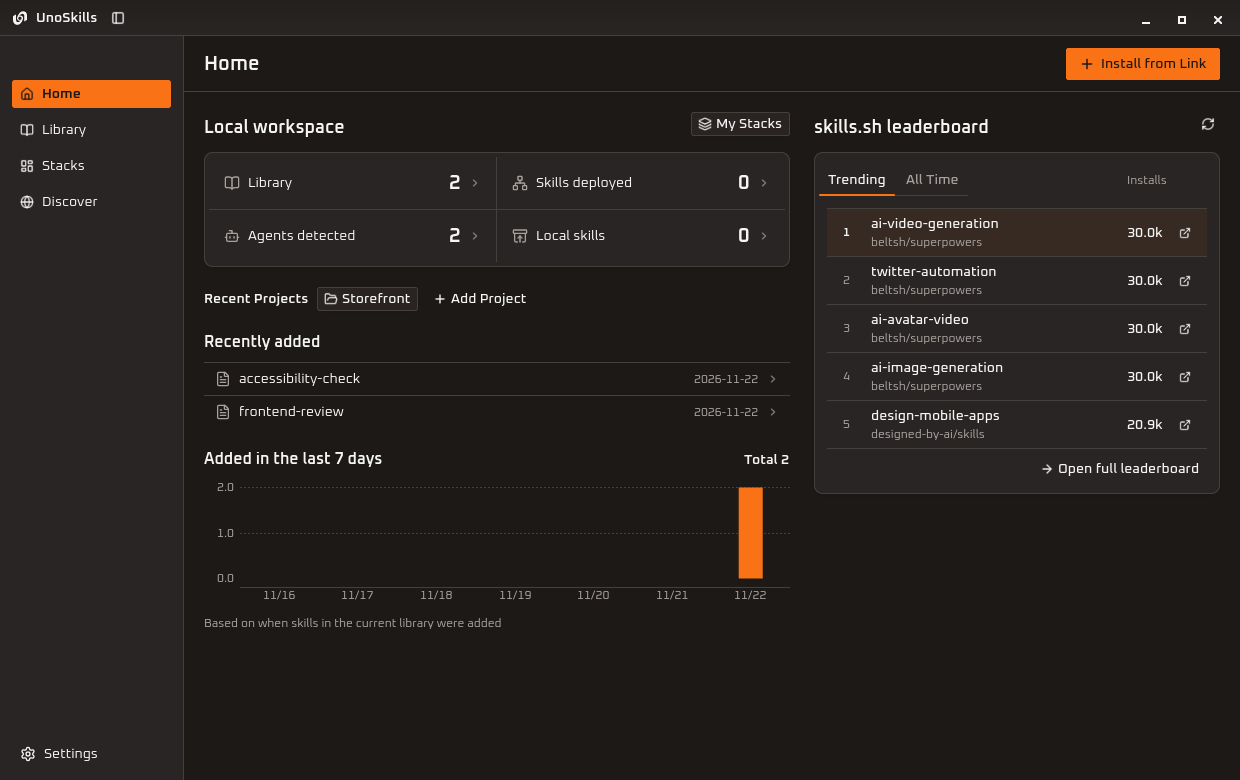
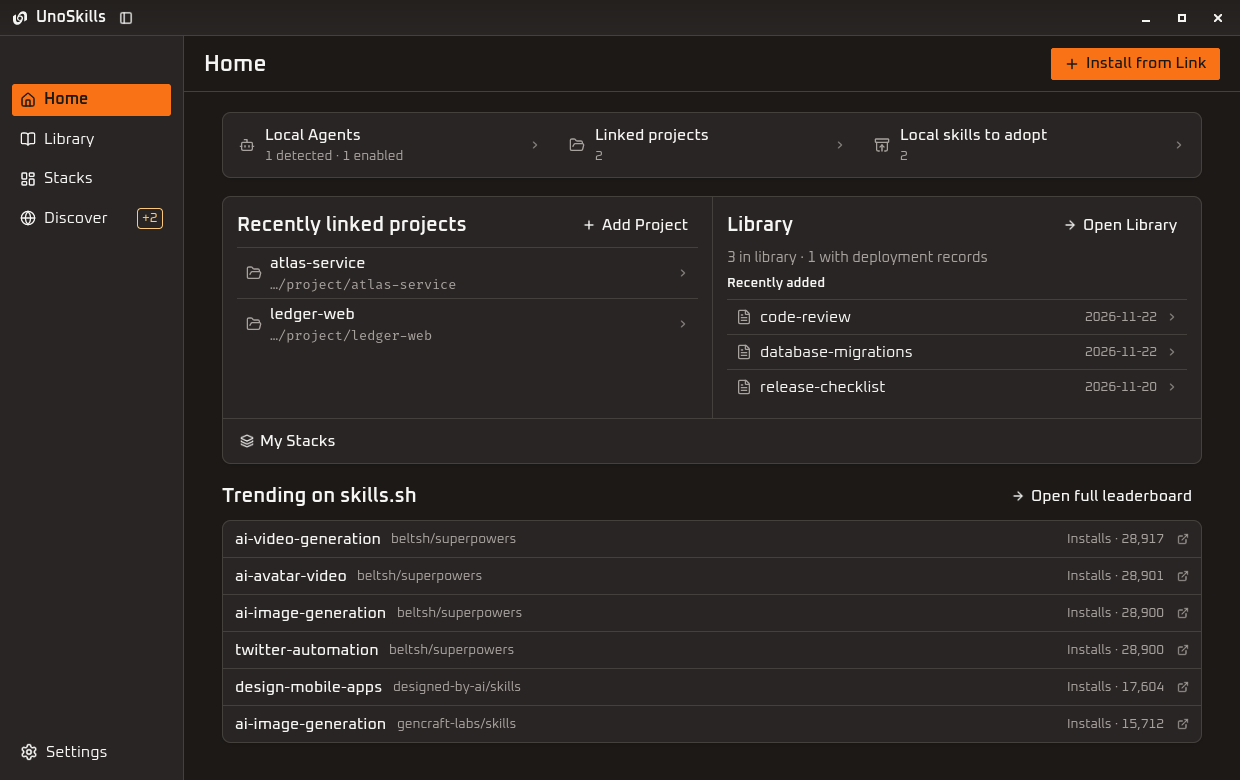
chore(release): prepare UnoSkills v0.8.0

diff --git a/README.md b/README.md
@@ -23,7 +23,7 @@
   <a href="README.zh-CN.md">简体中文</a>
 </p>
 
-![UnoSkills Home showing the local workspace, recent projects, and the skills.sh leaderboard](assets/demo/home.png)
+![UnoSkills Home showing local status shortcuts, recent projects and skills, and trending skills](assets/demo/home.png)
 
 ## Install
 
@@ -37,9 +37,9 @@ Download the installer for your platform from [GitHub Releases](https://github.c
 
 Portable archives, including the macOS CLI, are available on the same release page. macOS builds are currently ad-hoc signed.
 
-### Upgrade from 0.6
+### Upgrading
 
-Install 0.7 over the existing app. The Native Shell desktop opens the same `~/.unoskills` library and settings as 0.6, as does the CLI. In **Settings → About & updates**, check for a release, download and verify the installer, then open it when ready.
+Install the latest release over your existing UnoSkills installation. The desktop app and CLI continue to use your `~/.unoskills` library and settings. In **Settings → About & updates**, check for a release, download and verify the installer, then open it when ready.
 
 ## Quick start
 
@@ -68,15 +68,15 @@ Select the skills you want and choose **Save as Stack**. If skills are missing f
 
 | Area | What it does |
 | --- | --- |
-| **Home** | Open recent projects, jump to My Stacks, and see library activity and the skills.sh leaderboard. |
-| **Library** | Preview or edit `SKILL.md`, check lint findings and token estimates, update skills, and manage per-agent deployments. |
+| **Home** | Check local Agent, project, and skill status, open recent work, and browse trending skills. |
+| **Library** | Preview or edit `SKILL.md`, check lint findings and token estimates, preview updates, restore the previous version, and manage per-Agent deployments. |
 | **Stacks** | Use featured or community stacks, create your own, and exchange portable TOML manifests. |
 | **Discover** | Search the marketplace, filter loaded results by source, install from links, or add existing local skills to the library. |
 | **Settings** | Choose a theme preset, search installed fonts, set the base text size, and configure language, agents, network access, and Git backup. |
 
 ## Desktop screenshots
 
-These screenshots show the 0.7 Linux desktop with a sample workspace.
+These Linux screenshots use a sample workspace.
 
 <details>
 <summary>Library and Stacks</summary>

diff --git a/README.zh-CN.md b/README.zh-CN.md
@@ -23,7 +23,7 @@
   <a href="README.md">English</a>
 </p>
 
-![UnoSkills 首页展示本机工作区、最近项目和 skills.sh 排行榜](assets/demo/home.png)
+![UnoSkills 首页展示本机状态入口、最近项目、近期入库技能和热门榜单](assets/demo/home.png)
 
 ## 安装
 
@@ -37,9 +37,9 @@
 
 发布页也提供便携压缩包，其中包含 macOS CLI。macOS 构建目前采用临时签名。
 
-### 从 0.6 升级
+### 升级
 
-在原有应用上安装 0.7。新桌面端和 CLI 继续读取 `~/.unoskills` 中的技能库和设置。也可以在「设置 → 关于与更新」检查版本，下载并校验安装包，再打开安装。
+在原有 UnoSkills 应用上安装最新版本。桌面端和 CLI 继续读取 `~/.unoskills` 中的技能库和设置。也可以在「设置 → 关于与更新」检查版本，下载并校验安装包，再打开安装。
 
 ## 快速上手
 
@@ -68,15 +68,15 @@
 
 | 页面 | 可以做什么 |
 | --- | --- |
-| **首页** | 打开最近项目和我的组合，查看近期入库统计与 skills.sh 排行榜。 |
-| **技能库** | 预览或编辑 `SKILL.md`，查看检查结果和 token 估算，更新技能并管理各 Agent 的部署。 |
+| **首页** | 查看本机 Agent、项目和技能状态，打开最近项目或技能，浏览热门技能。 |
+| **技能库** | 预览或编辑 `SKILL.md`，查看检查结果和 token 估算，预览技能更新、恢复上一版本并管理各 Agent 的部署。 |
 | **技能组合** | 使用精选或社区组合，保存个人组合，导入和导出可分享的 TOML 清单。 |
 | **发现** | 搜索市场、按来源筛选已加载结果、从链接安装，或将本机技能纳入技能库。 |
 | **设置** | 选择主题预设、搜索已安装字体、调整基础字号，设置语言、Agent、网络和 Git 备份。 |
 
 ## 桌面截图
 
-截图来自 0.7 的 Linux 构建，使用示例工作区和英文界面。
+截图来自 Linux 构建，使用示例工作区和英文界面。
 
 <details>
 <summary>技能库和技能组合</summary>

diff --git a/CHANGELOG.md b/CHANGELOG.md
@@ -8,9 +8,16 @@ The format is based on [Keep a Changelog](https://keepachangelog.com/en/1.1.0/),
 
 ## [Unreleased]
 
+## [v0.8.0] - 2026-11-22
+
 ### Added / 新增
 
 - **Skill update review and restore / 技能更新预览与恢复**. Review changed files and affected deployment paths in the Library before applying an update. Restore the previous local version and review missing or modified deployments while preserving their files. 在技能库确认更新前查看文件变更与受影响的部署路径，可恢复上一个本地版本。已缺失或手工修改的部署会列出处理提示，手工修改的文件会保留。
+
+### Changed / 改进
+
+- **Home workspace / 首页工作区**. See detected and enabled Agents, linked projects, and skills available to adopt. Open the corresponding page from each status, or continue from a recent project or skill. 首页可查看已检测和已启用的 Agent、已关联项目及待接管技能，点击即可进入对应页面，也能直接打开最近项目或技能。
+- **Trending skills / 热门技能**. Home shows up to six skills.sh trends with their sources and install counts. Short windows start with three rows and can expand the list. 首页展示最多六条 skills.sh 热门技能，附来源和安装量。矮窗口先显示三条，列表可展开。
 
 ## [v0.7.0] - 2026-11-22
 
